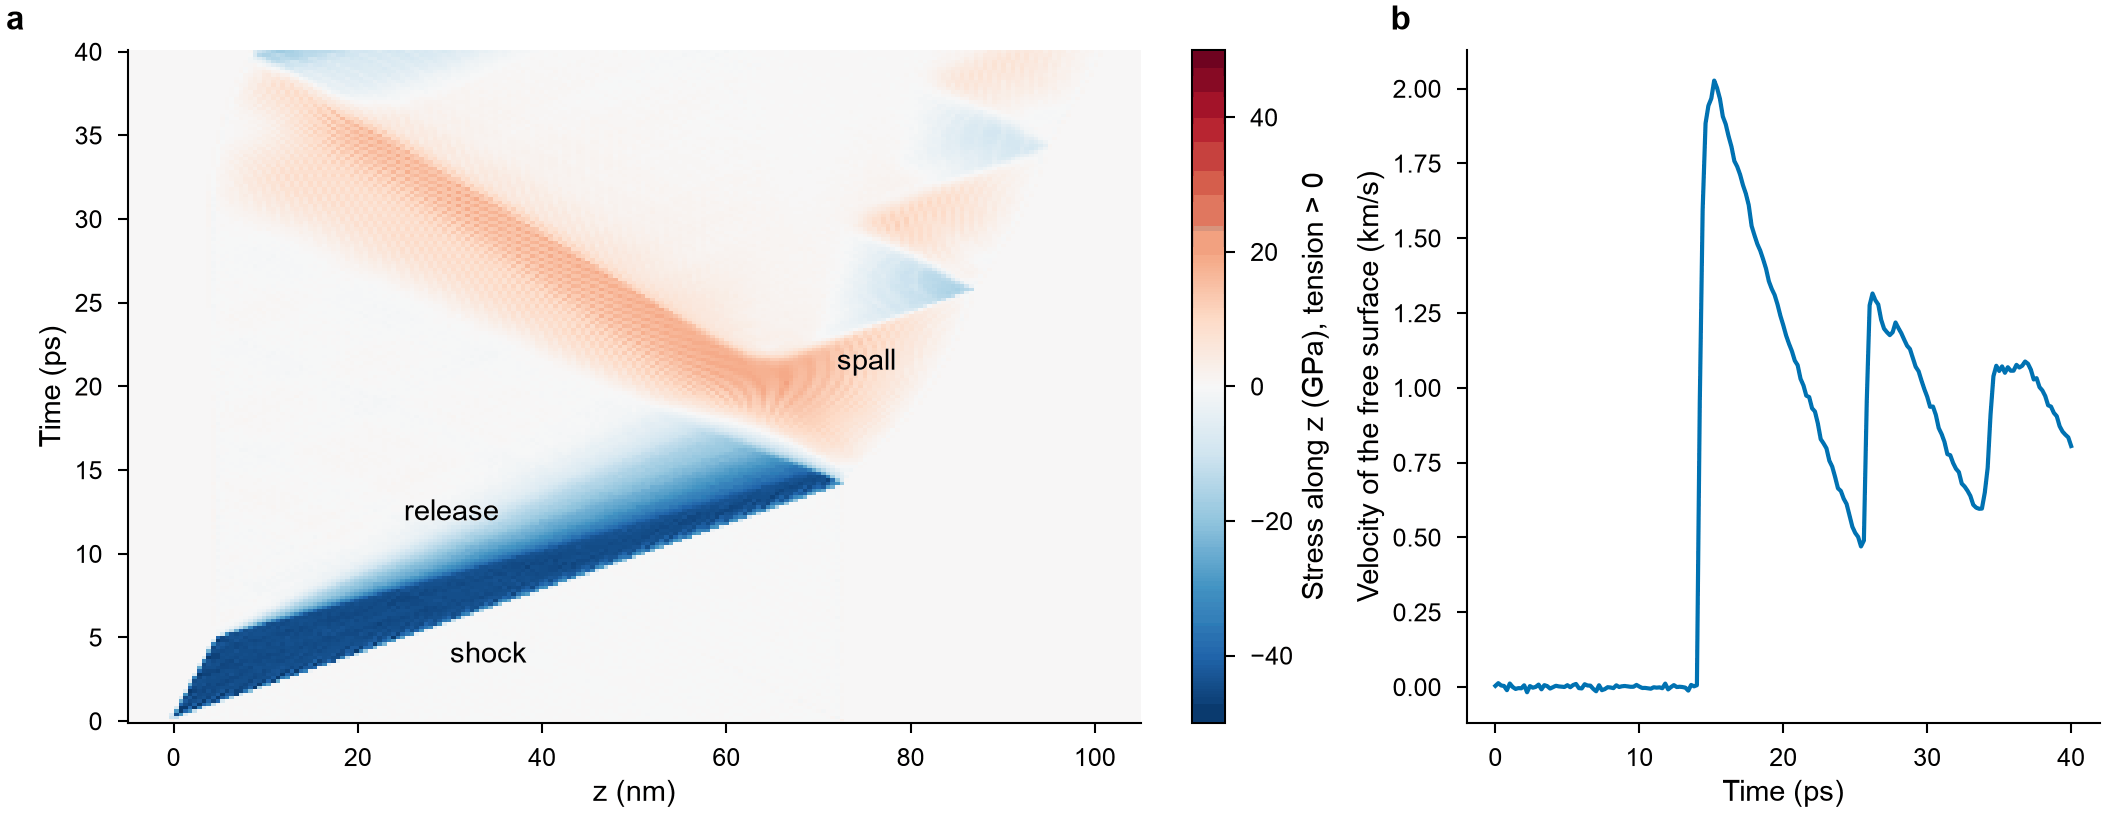
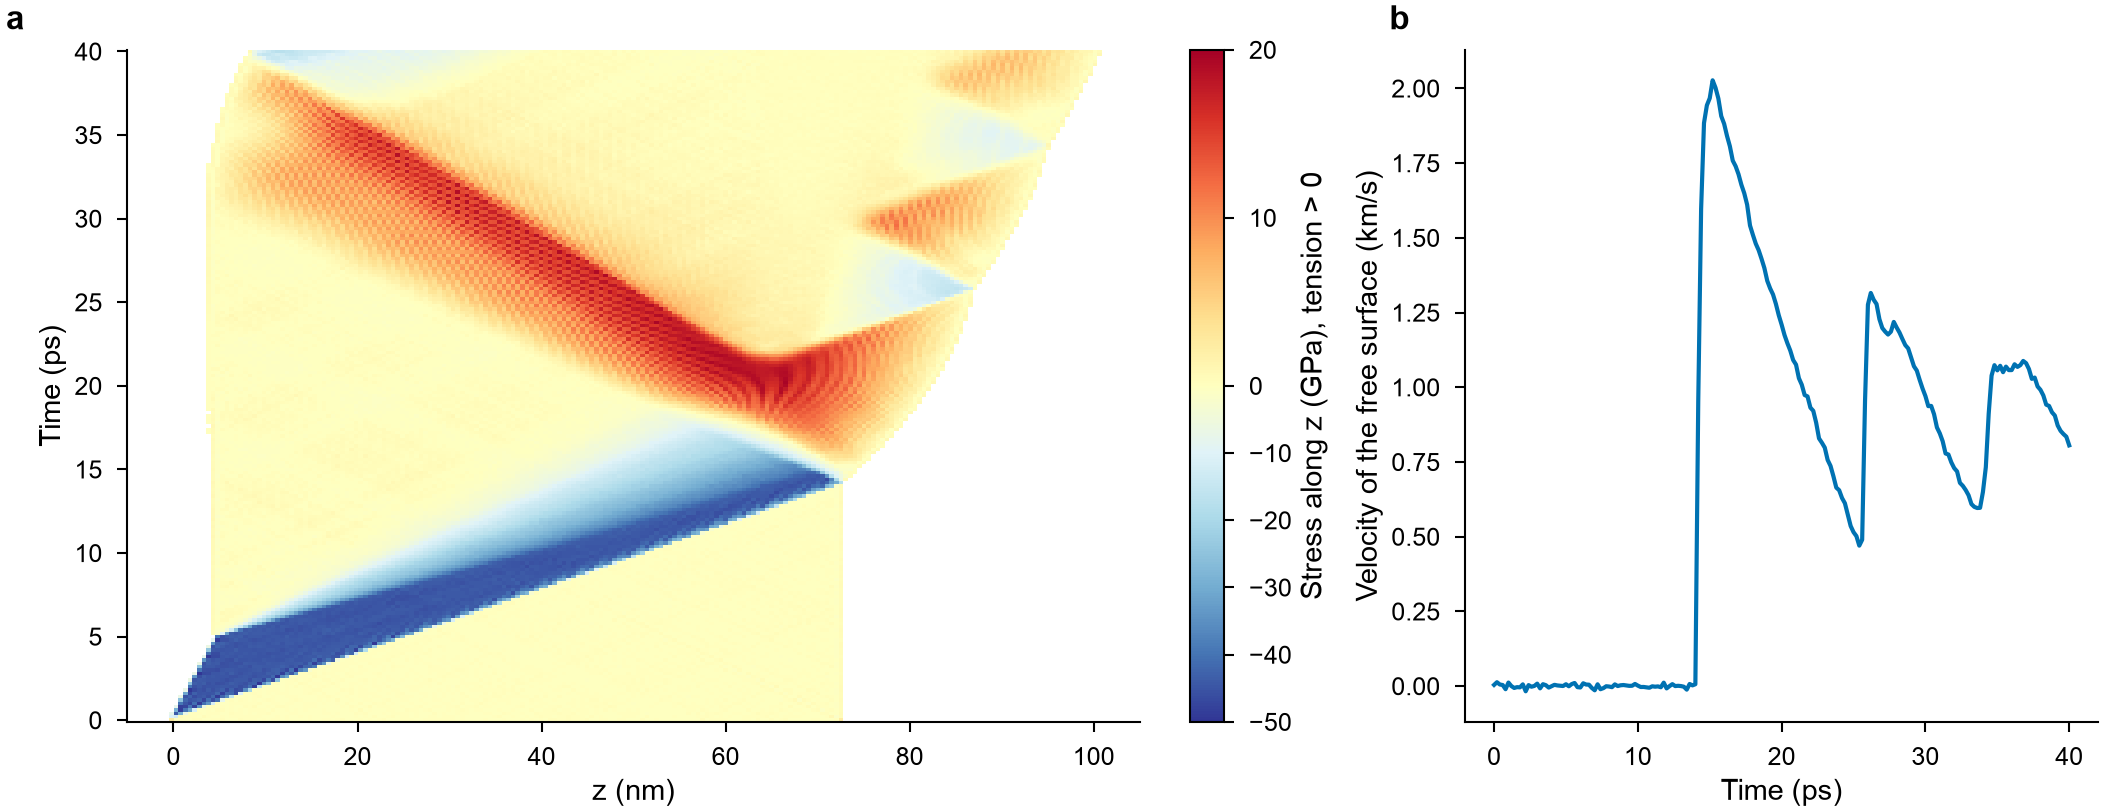
Shock and spall: the slabs without atoms are left white in the wave diagram, whose colors run to the strongest pull

diff --git a/docs/examples/shock.md b/docs/examples/shock.md
@@ -68,11 +68,13 @@ records, kept = [], {}
 def record(frame, start):
     t = round(frame.info["time"] - start, 3)
     frame = copper.compute(frame, ("atomic_virials",)).attach(frame)
+    moving = velocity.compute(frame)
     records.append(
         {
             "time": t,
             "stress": stress.compute(frame).values[:, 2, 2],
-            "velocity": velocity.compute(frame).values[:, 2],
+            "velocity": moving.values[:, 2],
+            "counts": moving.counts,  # atoms in each slab
             "surface": frame["velocities"][surface, 2].mean(),
         }
     )
@@ -98,14 +100,22 @@ velocity of the free surface:
 <!-- skip-test -->
 ```python
 import numpy as np
+from matplotlib.colors import TwoSlopeNorm
+
 from mdapy.visualization import plot
 
 time = np.array([r["time"] for r in records])
 waves = np.array([r["stress"] for r in records])  # GPa, tension > 0
+waves[np.array([r["counts"] for r in records]) == 0] = np.nan  # no atoms, no color
 with plot.style():
     fig, (a, b) = plot.figure("double", 70, ncols=2, width_ratios=(1.6, 1))
     mesh = a.pcolormesh(
-        z / 10, time, waves, cmap="RdBu_r", vmin=-50, vmax=50, shading="nearest"
+        z / 10,
+        time,
+        waves,
+        cmap="RdYlBu_r",
+        norm=TwoSlopeNorm(0.0, vmin=-50.0, vmax=20.0),  # the pull in full red
+        shading="nearest",
     )
     fig.colorbar(mesh, ax=a, label="Stress along z (GPa), tension > 0")
     a.set(xlabel="z (nm)", ylabel="Time (ps)", xlim=(-5, 105))
@@ -118,8 +128,9 @@ with plot.style():
 
 ![The stress along z of the copper against its place and time, and the velocity of its free surface](images/shock-spall-wave.png)
 
-*a: The piston drives a shock of 51 GPa (blue) at 5.2 km/s. At 5 ps it stops, and a
-release follows the shock and wears it down. At 14 ps the shock reaches the free
+*a: The slabs without atoms are left white. The piston drives a shock of 51 GPa
+(blue) at 5.2 km/s. At 5 ps it stops, and a release follows the shock and wears it
+down. At 14 ps the shock reaches the free
 surface at 73 nm and comes back as a release. The two releases meet near 66 nm at
 20 ps, where they pull the copper by 19.5 GPa (red): it spalls there, and the layer
 beyond, the scab, rings between its two new surfaces. b: The free surface jumps to
